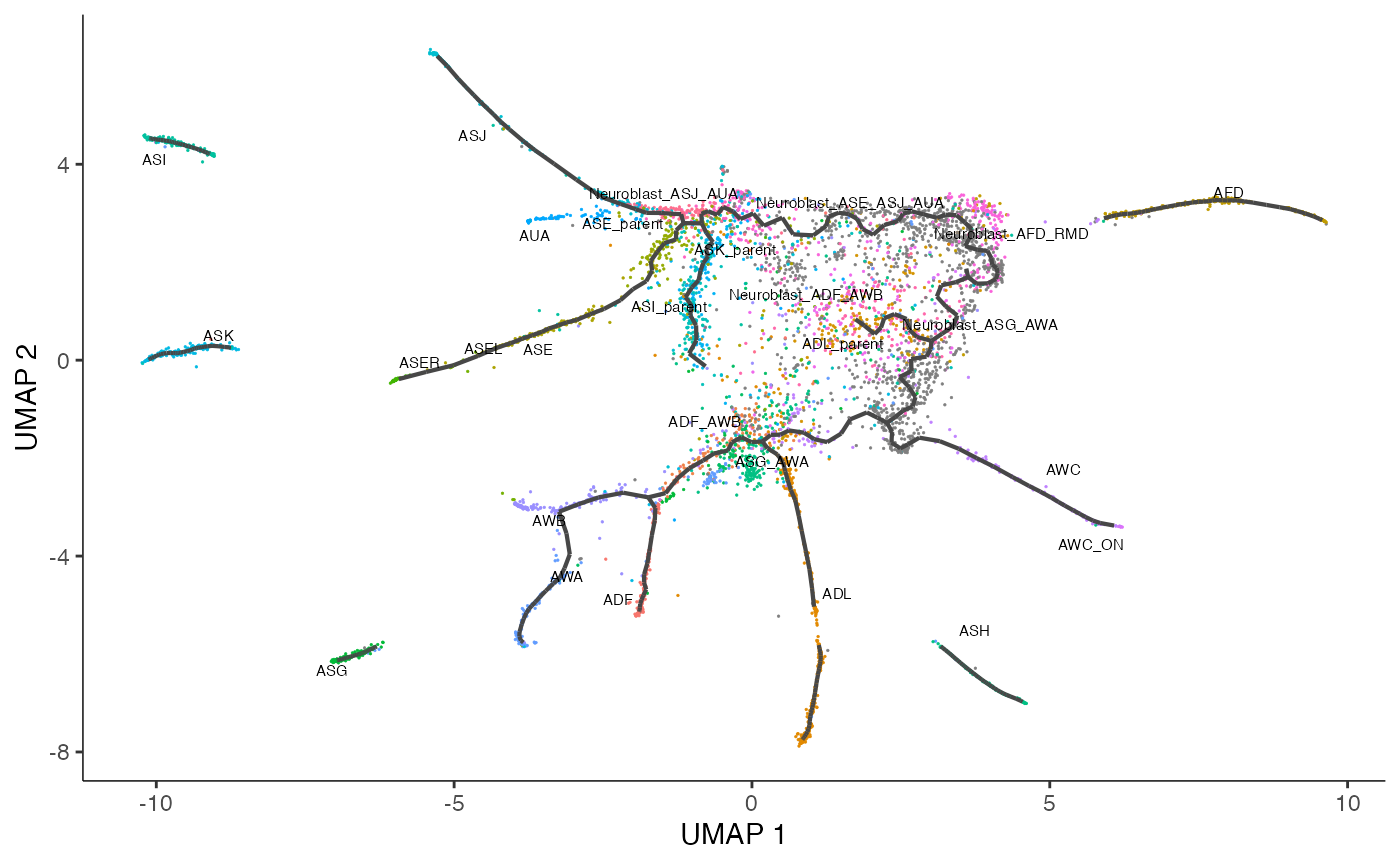
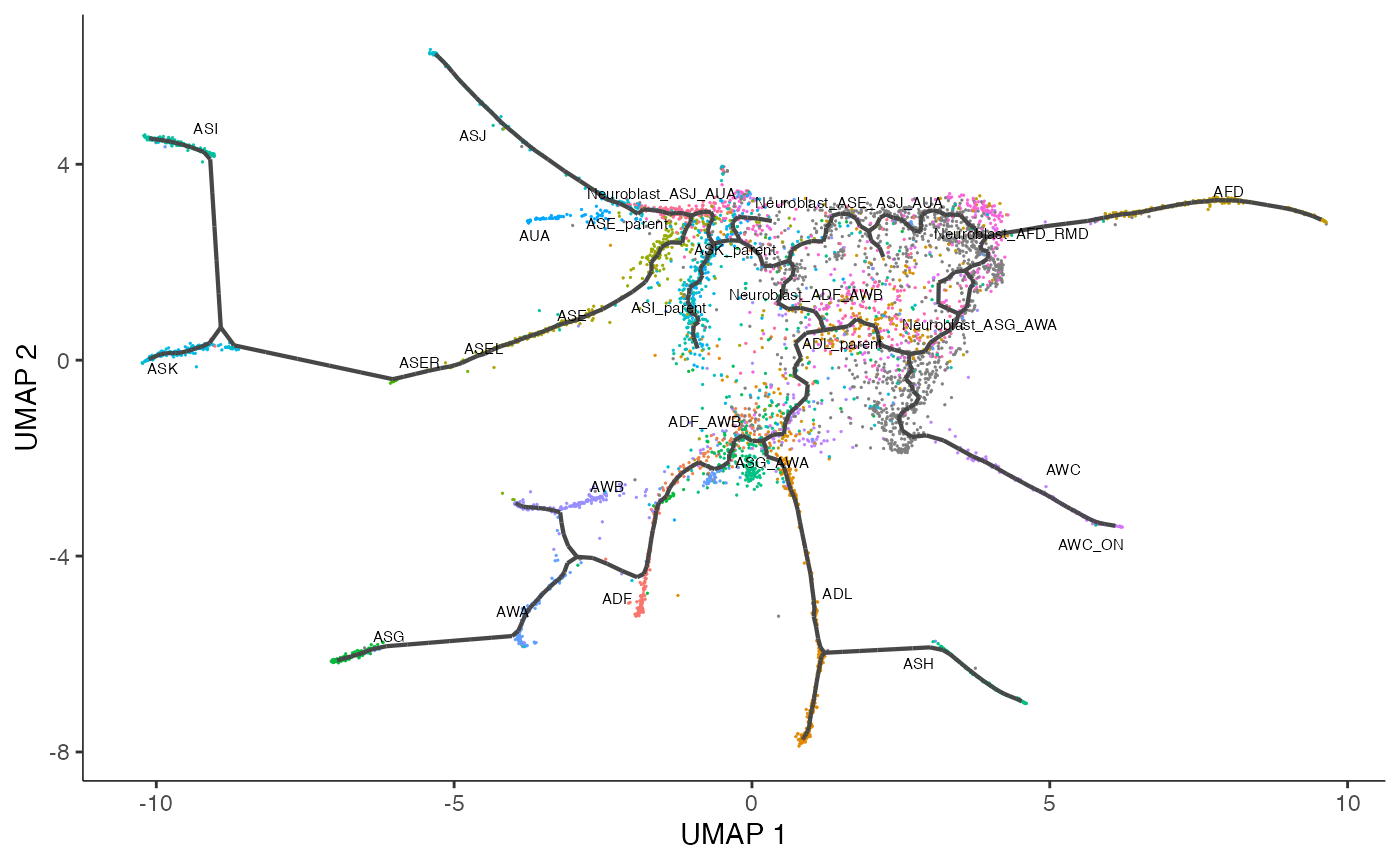
working on knowwing

diff --git a/docs/articles/monocle3_tutorial.html b/docs/articles/monocle3_tutorial.html
@@ -86,7 +86,7 @@
     
     
 <p><strong>This tutorial is under construction.</strong></p>
-<p>Before using this tutorial, we recommend that you read through our ``introduction to count splitting” tutorial to understand our method in a simple example with simulated data.</p>
+<p>Before using this tutorial, we recommend that you read through our <a href="https://anna-neufeld.github.io/countsplit/articles/countsplit_tutorial.html" class="external-link">introductory tuorial</a> to understand our method in a simple example with simulated data.</p>
 <p>For this tutorial, we reproduce the Monocle3<a href="https://cole-trapnell-lab.github.io/monocle3/docs/trajectories/" class="external-link">vignette</a>, but we apply count splitting. Throughout the tutorial, we see that we reach similar takeaways to those reached in the Monocle3 vignette, despite the fact that we estimate pseudotime using only the training set.</p>
 <div class="section level2">
 <h2 id="install-monocle3">Install Monocle3<a class="anchor" aria-label="anchor" href="#install-monocle3"></a>
@@ -115,49 +115,62 @@
 <span class="va">cds_train</span> <span class="op">&lt;-</span> <span class="fu"><a href="https://rdrr.io/pkg/monocle3/man/new_cell_data_set.html" class="external-link">new_cell_data_set</a></span><span class="op">(</span><span class="va">Xtrain</span>,
                          cell_metadata <span class="op">=</span> <span class="va">cell_metadata</span>,
                          gene_metadata <span class="op">=</span> <span class="va">gene_annotation</span><span class="op">)</span></code></pre></div>
-<!-- # Preprocess and estimate pseudotime -->
-<!-- We now follow the preprocessing and pseudotime steps from the Monocle3 tutorial to come up with pseudotime estiamtes. Everything in this section uses the training set only.  -->
-<!-- ```{r} -->
-<!-- cds_train <- preprocess_cds(cds_train, num_dim = 50) -->
-<!-- cds_train <- align_cds(cds_train, alignment_group = "batch", residual_model_formula_str = "~ bg.300.loading + bg.400.loading + bg.500.1.loading + bg.500.2.loading + bg.r17.loading + bg.b01.loading + bg.b02.loading") -->
-<!-- ``` -->
-<!-- The plot below shows that the cells cluster nicely by their cell type in reduced dimensions. This suggests that count splitting the data has not destroyed the signal in the data.  -->
-<!-- ```{r} -->
-<!-- cds_train <- reduce_dimension(cds_train) -->
-<!-- plot_cells(cds_train, label_groups_by_cluster=FALSE,  color_cells_by = "cell.type") -->
-<!-- ``` -->
-<!-- Finally, we learn the graph that will be used to construct pseudotime. For simplicity in this tutorial, we would like to only have one pseudotime trajectory with one root node. Thus, we add the `use.partition=FALSE` argument to the `learn_graph`` function to ensure that our graph is made up of a single connected trajectory.  -->
-<!-- ```{r} -->
-<!-- cds_train <- cluster_cells(cds_train) -->
-<!-- cds_train <- learn_graph(cds_train, use.partition=FALSE) -->
-<!-- plot_cells(cds_train, -->
-<!--            color_cells_by = "cell.type", -->
-<!--            label_groups_by_cluster=FALSE, -->
-<!--            label_leaves=FALSE, -->
-<!--            label_branch_points=FALSE) -->
-<!-- ``` -->
-<!-- To pick a root node for pseudotime, we use the same method as in the Monocle3 vignette. We pick the cell from the first time bin that is closest to a graph vertex.  -->
-<!-- ```{r} -->
-<!-- get_earliest_principal_node <- function(cds, time_bin="130-170"){ -->
-<!--   cell_ids <- which(colData(cds)[, "embryo.time.bin"] == time_bin) -->
-<!--   closest_vertex <- -->
-<!--   cds@principal_graph_aux[["UMAP"]]$pr_graph_cell_proj_closest_vertex -->
-<!--   closest_vertex <- as.matrix(closest_vertex[colnames(cds), ]) -->
-<!--   root_pr_nodes <- -->
-<!--   igraph::V(principal_graph(cds)[["UMAP"]])$name[as.numeric(names -->
-<!--   (which.max(table(closest_vertex[cell_ids,]))))] -->
-<!--   root_pr_nodes -->
-<!-- } -->
-<!-- cds_train <- order_cells(cds_train, root_pr_nodes=get_earliest_principal_node(cds_train)) -->
-<!-- plot_cells(cds_train, -->
-<!--            color_cells_by = "pseudotime", -->
-<!--            label_cell_groups=FALSE, -->
-<!--            label_leaves=FALSE, -->
-<!--            label_branch_points=FALSE, -->
-<!--            graph_label_size=1.5) -->
-<!-- ``` -->
-<!-- # Differential Expression -->
-<!-- Now that we have estimated pseudotime using the training set, we are ready to study differential expression along pseudotime. In this section, we use the test set.  -->
+</div>
+<div class="section level2">
+<h2 id="preprocess-and-estimate-pseudotime">Preprocess and estimate pseudotime<a class="anchor" aria-label="anchor" href="#preprocess-and-estimate-pseudotime"></a>
+</h2>
+<p>We now follow the preprocessing and pseudotime steps from the Monocle3 tutorial to come up with pseudotime estiamtes. Everything in this section uses the training set only.</p>
+<div class="sourceCode" id="cb4"><pre class="downlit sourceCode r">
+<code class="sourceCode R"><span class="va">cds_train</span> <span class="op">&lt;-</span> <span class="fu"><a href="https://rdrr.io/pkg/monocle3/man/preprocess_cds.html" class="external-link">preprocess_cds</a></span><span class="op">(</span><span class="va">cds_train</span>, num_dim <span class="op">=</span> <span class="fl">50</span><span class="op">)</span>
+<span class="va">cds_train</span> <span class="op">&lt;-</span> <span class="fu"><a href="https://rdrr.io/pkg/monocle3/man/align_cds.html" class="external-link">align_cds</a></span><span class="op">(</span><span class="va">cds_train</span>, alignment_group <span class="op">=</span> <span class="st">"batch"</span>, residual_model_formula_str <span class="op">=</span> <span class="st">"~ bg.300.loading + bg.400.loading + bg.500.1.loading + bg.500.2.loading + bg.r17.loading + bg.b01.loading + bg.b02.loading"</span><span class="op">)</span></code></pre></div>
+<p>The plot below shows that the cells cluster nicely by their cell type in reduced dimensions. This suggests that count splitting the data has not destroyed the signal in the data.</p>
+<div class="sourceCode" id="cb5"><pre class="downlit sourceCode r">
+<code class="sourceCode R"><span class="va">cds_train</span> <span class="op">&lt;-</span> <span class="fu"><a href="https://rdrr.io/pkg/monocle3/man/reduce_dimension.html" class="external-link">reduce_dimension</a></span><span class="op">(</span><span class="va">cds_train</span><span class="op">)</span>
+<span class="fu"><a href="https://rdrr.io/pkg/monocle3/man/plot_cells.html" class="external-link">plot_cells</a></span><span class="op">(</span><span class="va">cds_train</span>, label_groups_by_cluster<span class="op">=</span><span class="cn">FALSE</span>,  color_cells_by <span class="op">=</span> <span class="st">"cell.type"</span><span class="op">)</span></code></pre></div>
+<p><img src="monocle3_tutorial_files/figure-html/unnamed-chunk-5-1.png" width="700"></p>
+<p>Finally, we learn the graph that will be used to construct pseudotime. For simplicity in this tutorial, we would like to only have one pseudotime trajectory with one root node. Thus, we add the <code>use.partition=FALSE</code> argument to the `learn_graph`` function to ensure that our graph is made up of a single connected trajectory.</p>
+<div class="sourceCode" id="cb6"><pre class="downlit sourceCode r">
+<code class="sourceCode R"><span class="va">cds_train</span> <span class="op">&lt;-</span> <span class="fu"><a href="https://rdrr.io/pkg/monocle3/man/cluster_cells.html" class="external-link">cluster_cells</a></span><span class="op">(</span><span class="va">cds_train</span><span class="op">)</span>
+<span class="va">cds_train</span> <span class="op">&lt;-</span> <span class="fu"><a href="https://rdrr.io/pkg/monocle3/man/learn_graph.html" class="external-link">learn_graph</a></span><span class="op">(</span><span class="va">cds_train</span>, use_partition<span class="op">=</span><span class="cn">FALSE</span><span class="op">)</span></code></pre></div>
+<pre><code>## 
+  |                                                                            
+  |                                                                      |   0%
+  |                                                                            
+  |======================================================================| 100%</code></pre>
+<div class="sourceCode" id="cb8"><pre class="downlit sourceCode r">
+<code class="sourceCode R"><span class="fu"><a href="https://rdrr.io/pkg/monocle3/man/plot_cells.html" class="external-link">plot_cells</a></span><span class="op">(</span><span class="va">cds_train</span>,
+           color_cells_by <span class="op">=</span> <span class="st">"cell.type"</span>,
+           label_groups_by_cluster<span class="op">=</span><span class="cn">FALSE</span>,
+           label_leaves<span class="op">=</span><span class="cn">FALSE</span>,
+           label_branch_points<span class="op">=</span><span class="cn">FALSE</span><span class="op">)</span></code></pre></div>
+<p><img src="monocle3_tutorial_files/figure-html/unnamed-chunk-6-1.png" width="700"> To pick a root node for pseudotime, we use the same method as in the Monocle3 vignette. We pick the cell from the first time bin that is closest to a graph vertex.</p>
+<div class="sourceCode" id="cb9"><pre class="downlit sourceCode r">
+<code class="sourceCode R"><span class="va">get_earliest_principal_node</span> <span class="op">&lt;-</span> <span class="kw">function</span><span class="op">(</span><span class="va">cds</span>, <span class="va">time_bin</span><span class="op">=</span><span class="st">"130-170"</span><span class="op">)</span><span class="op">{</span>
+  <span class="va">cell_ids</span> <span class="op">&lt;-</span> <span class="fu"><a href="https://rdrr.io/r/base/which.html" class="external-link">which</a></span><span class="op">(</span><span class="fu">colData</span><span class="op">(</span><span class="va">cds</span><span class="op">)</span><span class="op">[</span>, <span class="st">"embryo.time.bin"</span><span class="op">]</span> <span class="op">==</span> <span class="va">time_bin</span><span class="op">)</span>
+
+  <span class="va">closest_vertex</span> <span class="op">&lt;-</span>
+  <span class="va">cds</span><span class="op">@</span><span class="va">principal_graph_aux</span><span class="op">[[</span><span class="st">"UMAP"</span><span class="op">]</span><span class="op">]</span><span class="op">$</span><span class="va">pr_graph_cell_proj_closest_vertex</span>
+  <span class="va">closest_vertex</span> <span class="op">&lt;-</span> <span class="fu"><a href="https://rdrr.io/r/base/matrix.html" class="external-link">as.matrix</a></span><span class="op">(</span><span class="va">closest_vertex</span><span class="op">[</span><span class="fu"><a href="https://rdrr.io/r/base/colnames.html" class="external-link">colnames</a></span><span class="op">(</span><span class="va">cds</span><span class="op">)</span>, <span class="op">]</span><span class="op">)</span>
+  <span class="va">root_pr_nodes</span> <span class="op">&lt;-</span>
+  <span class="fu">igraph</span><span class="fu">::</span><span class="fu"><a href="https://rdrr.io/pkg/igraph/man/V.html" class="external-link">V</a></span><span class="op">(</span><span class="fu"><a href="https://rdrr.io/pkg/monocle3/man/principal_graph.html" class="external-link">principal_graph</a></span><span class="op">(</span><span class="va">cds</span><span class="op">)</span><span class="op">[[</span><span class="st">"UMAP"</span><span class="op">]</span><span class="op">]</span><span class="op">)</span><span class="op">$</span><span class="va">name</span><span class="op">[</span><span class="fu"><a href="https://rdrr.io/r/base/numeric.html" class="external-link">as.numeric</a></span><span class="op">(</span><span class="fu"><a href="https://rdrr.io/r/base/names.html" class="external-link">names</a></span>
+  <span class="op">(</span><span class="fu"><a href="https://rdrr.io/r/base/which.min.html" class="external-link">which.max</a></span><span class="op">(</span><span class="fu"><a href="https://rdrr.io/r/base/table.html" class="external-link">table</a></span><span class="op">(</span><span class="va">closest_vertex</span><span class="op">[</span><span class="va">cell_ids</span>,<span class="op">]</span><span class="op">)</span><span class="op">)</span><span class="op">)</span><span class="op">)</span><span class="op">]</span>
+
+  <span class="va">root_pr_nodes</span>
+<span class="op">}</span>
+<span class="va">cds_train</span> <span class="op">&lt;-</span> <span class="fu"><a href="https://rdrr.io/pkg/monocle3/man/order_cells.html" class="external-link">order_cells</a></span><span class="op">(</span><span class="va">cds_train</span>, root_pr_nodes<span class="op">=</span><span class="fu">get_earliest_principal_node</span><span class="op">(</span><span class="va">cds_train</span><span class="op">)</span><span class="op">)</span>
+<span class="fu"><a href="https://rdrr.io/pkg/monocle3/man/plot_cells.html" class="external-link">plot_cells</a></span><span class="op">(</span><span class="va">cds_train</span>,
+           color_cells_by <span class="op">=</span> <span class="st">"pseudotime"</span>,
+           label_cell_groups<span class="op">=</span><span class="cn">FALSE</span>,
+           label_leaves<span class="op">=</span><span class="cn">FALSE</span>,
+           label_branch_points<span class="op">=</span><span class="cn">FALSE</span>,
+           graph_label_size<span class="op">=</span><span class="fl">1.5</span><span class="op">)</span></code></pre></div>
+<p><img src="monocle3_tutorial_files/figure-html/unnamed-chunk-7-1.png" width="700"></p>
+</div>
+<div class="section level2">
+<h2 id="differential-expression">Differential Expression<a class="anchor" aria-label="anchor" href="#differential-expression"></a>
+</h2>
+<p>Now that we have estimated pseudotime using the training set, we are ready to study differential expression along pseudotime. In this section, we use the test set.</p>
+<p><strong>Coming soon.</strong></p>
 <!-- ## By hand -->
 <!-- If we wanted to do this ``by hand", we could do the following. FILL IN. NOTE TO SELF you need to remove cells with infinite pseudotime.  -->
 <!-- ## Using Monocle3's graph test -->

diff --git a/docs/articles/seurat_tutorial.html b/docs/articles/seurat_tutorial.html
@@ -225,7 +225,7 @@
 <span class="va">p1.train</span> <span class="op">&lt;-</span> <span class="fu"><a href="https://satijalab.org/seurat/reference/VizDimLoadings.html" class="external-link">VizDimLoadings</a></span><span class="op">(</span><span class="va">pbmc.train</span>, dims <span class="op">=</span> <span class="fl">1</span>, reduction <span class="op">=</span> <span class="st">"pca"</span><span class="op">)</span><span class="op">+</span><span class="fu"><a href="https://ggplot2.tidyverse.org/reference/theme.html" class="external-link">theme</a></span><span class="op">(</span>axis.text <span class="op">=</span> <span class="fu"><a href="https://ggplot2.tidyverse.org/reference/element.html" class="external-link">element_text</a></span><span class="op">(</span>size<span class="op">=</span><span class="fl">7</span><span class="op">)</span><span class="op">)</span><span class="op">+</span><span class="fu"><a href="https://ggplot2.tidyverse.org/reference/labs.html" class="external-link">ggtitle</a></span><span class="op">(</span><span class="st">"pbmc.train"</span><span class="op">)</span>
 <span class="va">p2.train</span> <span class="op">&lt;-</span> <span class="fu"><a href="https://satijalab.org/seurat/reference/VizDimLoadings.html" class="external-link">VizDimLoadings</a></span><span class="op">(</span><span class="va">pbmc.train</span>, dims <span class="op">=</span> <span class="fl">2</span>, reduction <span class="op">=</span> <span class="st">"pca"</span><span class="op">)</span><span class="op">+</span><span class="fu"><a href="https://ggplot2.tidyverse.org/reference/theme.html" class="external-link">theme</a></span><span class="op">(</span>axis.text <span class="op">=</span> <span class="fu"><a href="https://ggplot2.tidyverse.org/reference/element.html" class="external-link">element_text</a></span><span class="op">(</span>size<span class="op">=</span><span class="fl">7</span><span class="op">)</span><span class="op">)</span>
 
-<span class="va">p1</span><span class="op">+</span><span class="va">p1.train</span><span class="op">+</span><span class="va">p2</span><span class="op">+</span><span class="va">p2.train</span><span class="op">+</span><span class="fu"><a href="https://patchwork.data-imaginist.com/reference/plot_layout.html" class="external-link">plot_layout</a></span><span class="op">(</span>nrow<span class="op">=</span><span class="fl">2</span>, ncol<span class="op">=</span><span class="fl">2</span>, heights<span class="op">=</span><span class="fu"><a href="https://rdrr.io/r/grid/unit.html" class="external-link">unit</a></span><span class="op">(</span><span class="fu"><a href="https://rdrr.io/r/base/c.html" class="external-link">c</a></span><span class="op">(</span><span class="fl">5</span>, <span class="fl">4</span><span class="op">)</span>, <span class="fu"><a href="https://rdrr.io/r/base/c.html" class="external-link">c</a></span><span class="op">(</span><span class="st">'cm'</span>, <span class="st">'cm'</span><span class="op">)</span><span class="op">)</span><span class="op">)</span></code></pre></div>
+<span class="va">p1</span><span class="op">+</span><span class="va">p1.train</span><span class="op">+</span><span class="va">p2</span><span class="op">+</span><span class="va">p2.train</span><span class="op">+</span><span class="fu"><a href="https://patchwork.data-imaginist.com/reference/plot_layout.html" class="external-link">plot_layout</a></span><span class="op">(</span>nrow<span class="op">=</span><span class="fl">2</span>, ncol<span class="op">=</span><span class="fl">2</span>, heights<span class="op">=</span><span class="fu"><a href="https://rdrr.io/r/grid/unit.html" class="external-link">unit</a></span><span class="op">(</span><span class="fu"><a href="https://rdrr.io/r/base/c.html" class="external-link">c</a></span><span class="op">(</span><span class="fl">6</span>, <span class="fl">6</span><span class="op">)</span>, <span class="fu"><a href="https://rdrr.io/r/base/c.html" class="external-link">c</a></span><span class="op">(</span><span class="st">'cm'</span>, <span class="st">'cm'</span><span class="op">)</span><span class="op">)</span><span class="op">)</span></code></pre></div>
 <p><img src="seurat_tutorial_files/figure-html/unnamed-chunk-20-1.png" width="100%"></p>
 <p>We can see that we obtain very similar principal components on the training set to those obtained on the full data (up to a sign flip). On both datasets, PC1 is dominated by the gene <code>MALAT1</code>, and genes like <code>CST3, TYROBF</code> are of lesser importance. The second principal component is dominated by <code>CD79A</code> and <code>HLA-D0A1</code> and <code>HLA-DOB1</code>, with <code>NKG7</code> having lesser importance.</p>
 <p>Now that we have convinced ourselves that the training set is retaining a lot of the signal of the full dataset (and is thus able to estimate very similar principal components), we move on to clustering. We skip the next several visualizations and steps of the Seurat tutorial for brevity. We will return to the principal component heatmaps at the end of this document. As in the Seurat tutorial, we retain 10 principal components for clustering.</p>

diff --git a/docs/articles/countsplit_tutorial.html b/docs/articles/countsplit_tutorial.html
@@ -102,10 +102,11 @@
 <span class="va">n</span> <span class="op">&lt;-</span> <span class="fl">1000</span>
 <span class="va">p</span> <span class="op">&lt;-</span> <span class="fl">200</span>
 <span class="va">X</span> <span class="op">&lt;-</span> <span class="fu"><a href="https://rdrr.io/r/base/matrix.html" class="external-link">matrix</a></span><span class="op">(</span><span class="fu"><a href="https://rdrr.io/r/stats/Poisson.html" class="external-link">rpois</a></span><span class="op">(</span><span class="va">n</span><span class="op">*</span><span class="va">p</span>, lambda<span class="op">=</span><span class="fl">5</span><span class="op">)</span>, nrow<span class="op">=</span><span class="va">n</span><span class="op">)</span></code></pre></div>
+<p>In this tutorial, we are interested in knowing which genes are differentially expressed across discrete cell types. As the cell types are unknown, we estimate them via clustering.</p>
 <div class="section level3">
 <h3 id="the-naive-method">The naive method<a class="anchor" aria-label="anchor" href="#the-naive-method"></a>
 </h3>
-<p>Suppose we are interested in studying differential expression across two clusters, obtained with k-means clustering. First we can see that the naive method does not control the Type 1 error rate. Here is an example of what happens when we cluster the data and then test for differential expression using the naive method:</p>
+<p>Suppose we are interested in studying differential expression across two clusters, obtained with k-means clustering. First we can see that if we estimate the clusters and test for differential expression using the same data, we do not control the Type 1 error rate. We refer to the practice of using the same data for clustering and differential expression testing as the “naive method” or “double dipping.” Here is an example of what happens when we cluster the data and then test for differential expression on the same data.</p>
 <div class="sourceCode" id="cb4"><pre class="downlit sourceCode r">
 <code class="sourceCode R"><span class="va">clusters.full</span> <span class="op">&lt;-</span> <span class="fu"><a href="https://rdrr.io/r/stats/kmeans.html" class="external-link">kmeans</a></span><span class="op">(</span><span class="fu"><a href="https://rdrr.io/r/base/Log.html" class="external-link">log</a></span><span class="op">(</span><span class="va">X</span><span class="op">+</span><span class="fl">1</span><span class="op">)</span>, centers<span class="op">=</span><span class="fl">2</span><span class="op">)</span><span class="op">$</span><span class="va">cluster</span>
 <span class="va">results.naive</span> <span class="op">&lt;-</span> <span class="fu"><a href="https://rdrr.io/r/base/t.html" class="external-link">t</a></span><span class="op">(</span><span class="fu"><a href="https://rdrr.io/r/base/apply.html" class="external-link">apply</a></span><span class="op">(</span><span class="va">X</span>, <span class="fl">2</span>, <span class="kw">function</span><span class="op">(</span><span class="va">u</span><span class="op">)</span> <span class="fu"><a href="https://rdrr.io/r/base/summary.html" class="external-link">summary</a></span><span class="op">(</span><span class="fu"><a href="https://rdrr.io/r/stats/glm.html" class="external-link">glm</a></span><span class="op">(</span><span class="va">u</span><span class="op">~</span><span class="va">clusters.full</span>, family<span class="op">=</span><span class="st">"poisson"</span><span class="op">)</span><span class="op">)</span><span class="op">$</span><span class="va">coefficients</span><span class="op">[</span><span class="fl">2</span>,<span class="op">]</span><span class="op">)</span><span class="op">)</span>

diff --git a/docs/index.html b/docs/index.html
@@ -90,7 +90,7 @@
 <div class="section level2">
 <h2 id="where-can-i-learn-more">Where can I learn more?<a class="anchor" aria-label="anchor" href="#where-can-i-learn-more"></a>
 </h2>
-<p>See the <a href="https://anna-neufeld.github.io/countsplit/articles/countsplit_tutorial.html" class="external-link">tutorial</a> tab for an introduction to our framework on simple simulated data. See the <a href="https://anna-neufeld.github.io/countsplit/articles/seurat_tutorial.html" class="external-link">seurat</a>, <a href="https://anna-neufeld.github.io/countsplit/articles/scran_tutorial.html" class="external-link">scran</a>, and <a href="https://anna-neufeld.github.io/countsplit/articles/monocle3_tutorial.html" class="external-link">monocle3</a> tutorials for examples of how the count splitting package can be integrated with common scRNA-seq analysis pipelines.</p>
+<p>See the <a href="https://anna-neufeld.github.io/countsplit/articles/countsplit_tutorial.html" class="external-link">introductory tutorial</a> tab for an introduction to our framework on simple simulated data. See the <a href="https://anna-neufeld.github.io/countsplit/articles/seurat_tutorial.html" class="external-link">seurat</a>, <a href="https://anna-neufeld.github.io/countsplit/articles/scran_tutorial.html" class="external-link">scran</a>, and <a href="https://anna-neufeld.github.io/countsplit/articles/monocle3_tutorial.html" class="external-link">monocle3</a> tutorials for examples of how the count splitting package can be integrated with common scRNA-seq analysis pipelines.</p>
 <p>Please visit <a href="https://github.com/anna-neufeld/countsplit_paper" class="external-link">https://github.com/anna-neufeld/countsplit_paper</a> for code to reproduce the figures and tables from our paper.</p>
 </div>
 <div class="section level2">

diff --git a/docs/articles/scran_tutorial.html b/docs/articles/scran_tutorial.html
@@ -87,7 +87,7 @@
     
 <p><strong>This tutorial is under construction.</strong></p>
 <p>Before using this tutorial, we recommend that you read through our ``introduction to count splitting” tutorial to understand our method in a simple package with simulated data.</p>
-<p>In this tutorial, we use a real dataset from <span class="citation">(<strong>elorbany2022single?</strong>)</span> that is also used in our paper. The dataset contains 10,000 cells collected over 15 days of a directed differentiation protocol from induced pluripotent stem cells (IPSC) to cardiomyocytes (cm).</p>
+<p>In this tutorial, we use a real dataset from <span class="citation">Elorbany et al. (2022)</span> that is also used in our paper. The dataset contains 10,000 cells collected over 15 days of a directed differentiation protocol from induced pluripotent stem cells (IPSC) to cardiomyocytes (cm).</p>
 <div class="section level2">
 <h2 id="install-scran">Install scran<a class="anchor" aria-label="anchor" href="#install-scran"></a>
 </h2>
@@ -221,6 +221,15 @@
 <!--   pval.type = "all") -->
 <!-- results[[1]] -->
 <!-- ``` -->
+</div>
+<div class="section level2">
+<h2 class="unnumbered" id="references">References<a class="anchor" aria-label="anchor" href="#references"></a>
+</h2>
+<div id="refs" class="references csl-bib-body hanging-indent">
+<div id="ref-elorbany2022single" class="csl-entry">
+Elorbany, Reem, Joshua M Popp, Katherine Rhodes, Benjamin J Strober, Kenneth Barr, Guanghao Qi, Yoav Gilad, and Alexis Battle. 2022. <span>“Single-Cell Sequencing Reveals Lineage-Specific Dynamic Genetic Regulation of Gene Expression During Human Cardiomyocyte Differentiation.”</span> <em>PLoS Genetics</em> 18 (1): e1009666.
+</div>
+</div>
 </div>
   </div>
 

diff --git a/docs/articles/index.html b/docs/articles/index.html
@@ -59,7 +59,9 @@
       <h3>All vignettes</h3>
       <p class="section-desc"></p>
 
-      <dl><dt><a href="monocle3_tutorial.html">Tutorial: countsplitting and Monocle3</a></dt>
+      <dl><dt><a href="countsplit_tutorial.html">Tutorial: differential expression analysis on single cell RNA-seq data</a></dt>
+        <dd>
+        </dd><dt><a href="monocle3_tutorial.html">Tutorial: countsplitting and Monocle3</a></dt>
         <dd>
         </dd><dt><a href="scran_tutorial.html">Tutorial: countsplitting and scran</a></dt>
         <dd>

diff --git a/README.md b/README.md
@@ -18,7 +18,7 @@ remotes::install_github("anna-neufeld/countsplit")
 Where can I learn more? 
 -----
 
-See the [tutorial](https://anna-neufeld.github.io/countsplit/articles/countsplit_tutorial.html) tab for an introduction to our framework on simple simulated data. See the [seurat](https://anna-neufeld.github.io/countsplit/articles/seurat_tutorial.html),
+See the [introductory tutorial](https://anna-neufeld.github.io/countsplit/articles/countsplit_tutorial.html) tab for an introduction to our framework on simple simulated data. See the [seurat](https://anna-neufeld.github.io/countsplit/articles/seurat_tutorial.html),
 [scran](https://anna-neufeld.github.io/countsplit/articles/scran_tutorial.html), and [monocle3](https://anna-neufeld.github.io/countsplit/articles/monocle3_tutorial.html) tutorials for examples of how the count splitting package can be integrated with common scRNA-seq analysis pipelines. 
 
 Please visit [https://github.com/anna-neufeld/countsplit_paper](https://github.com/anna-neufeld/countsplit_paper) for code to reproduce the figures and tables from our paper. 
